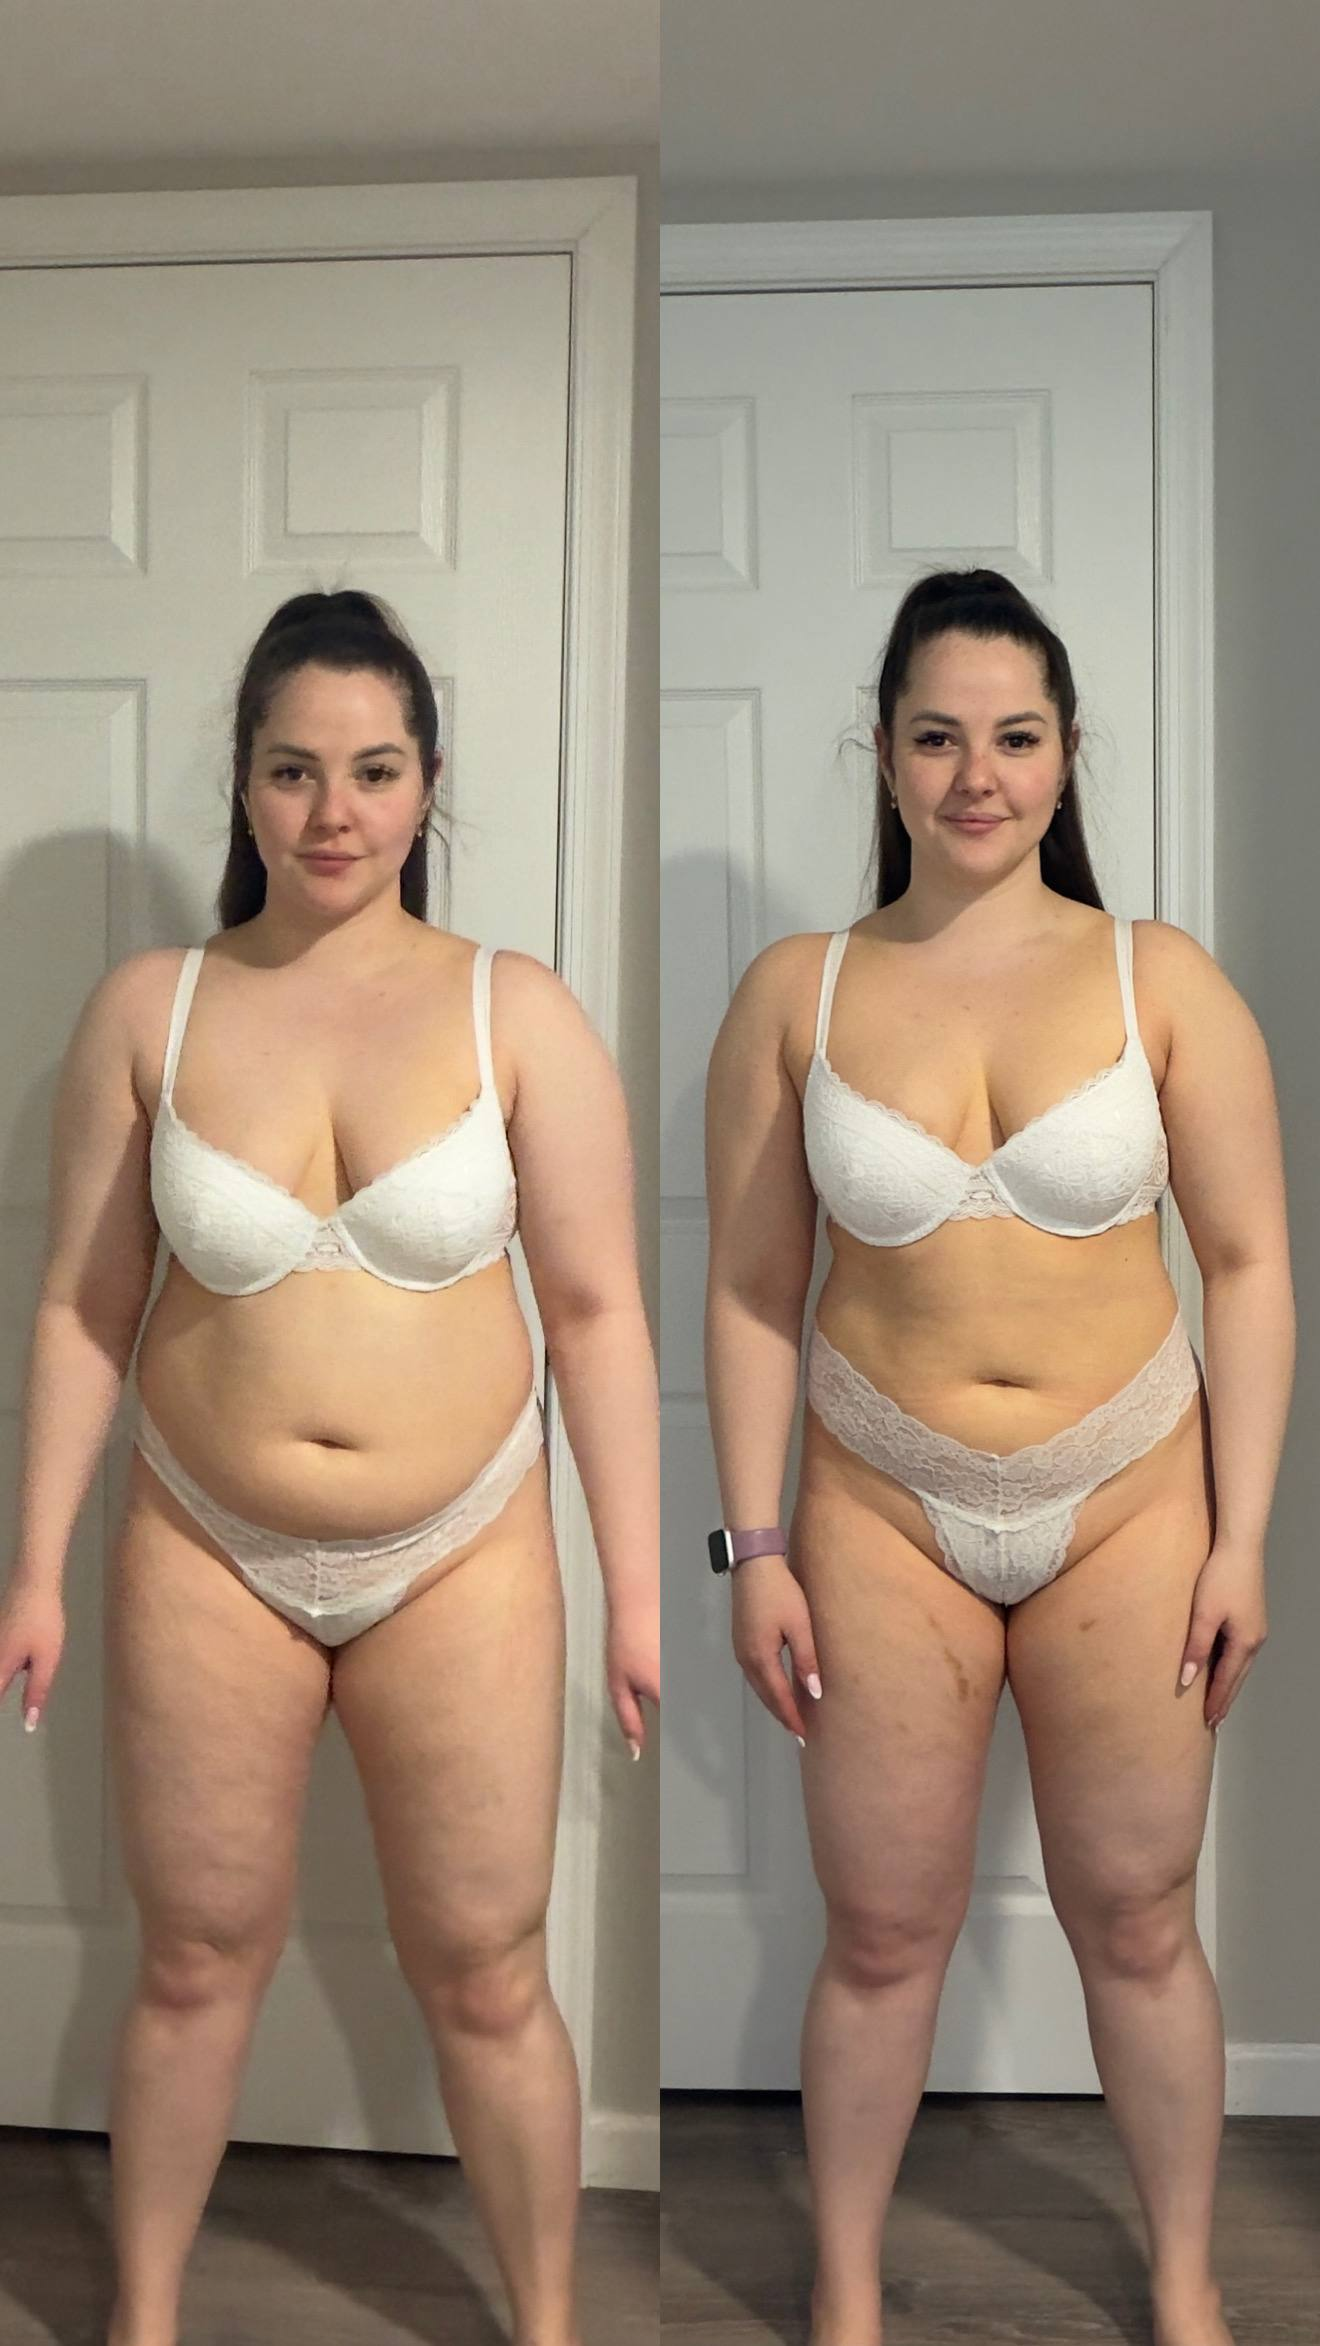
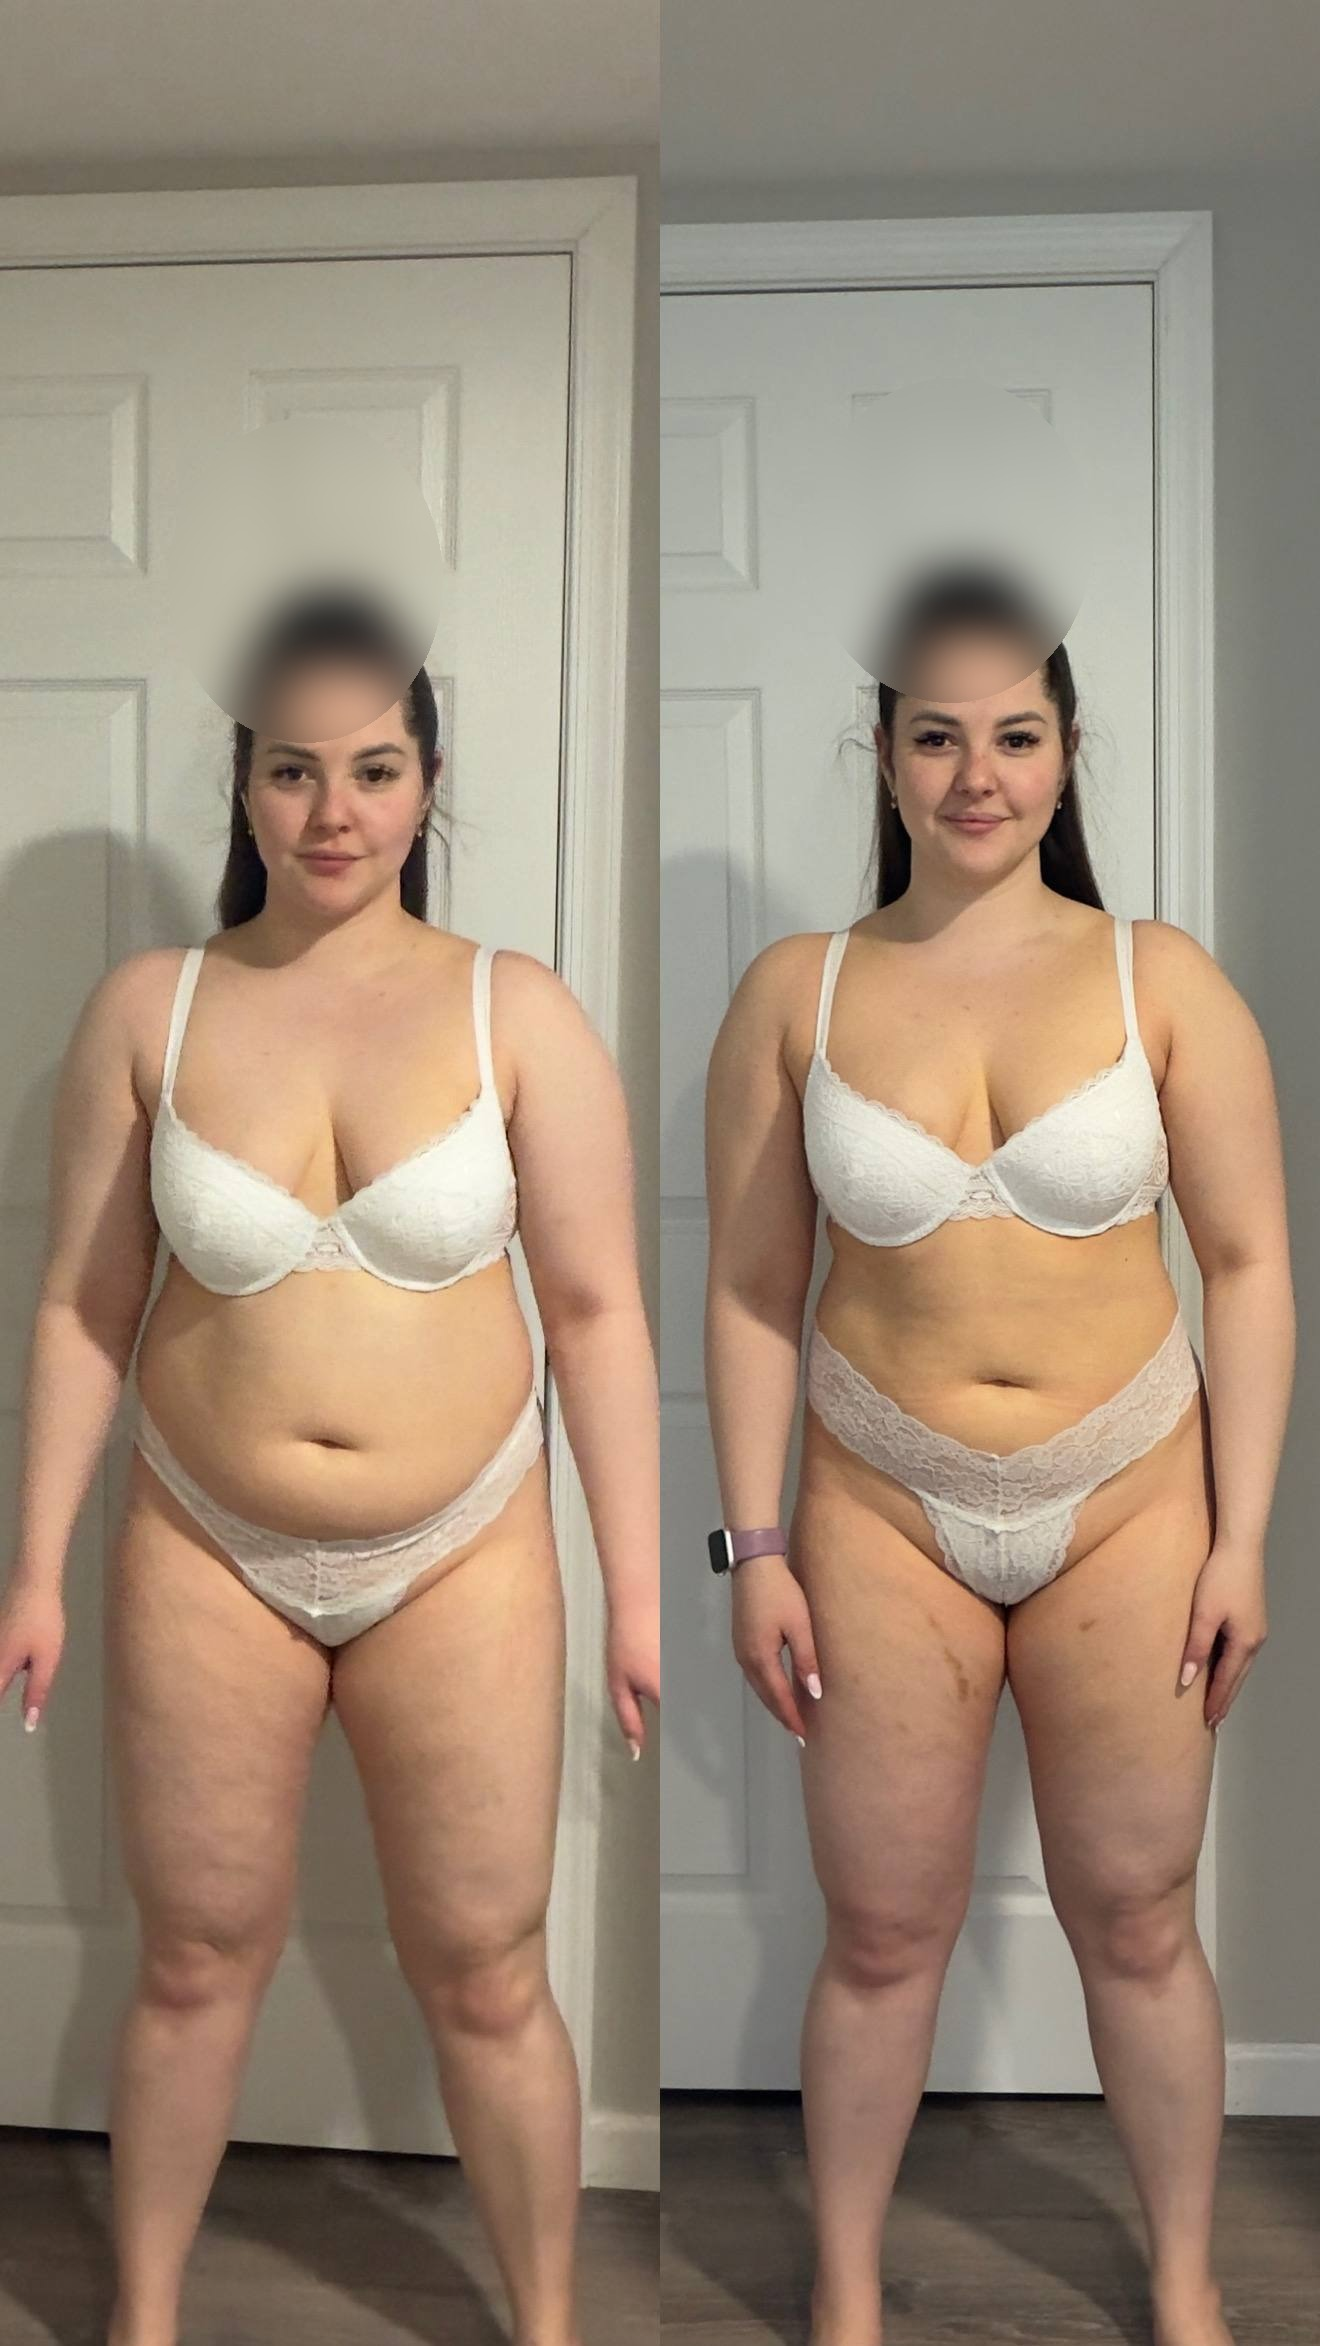
Update review cases and mobile content

Changed region(s): [[0.1553, 0.2178, 0.3417, 0.3423], [0.6523, 0.2178, 0.8076, 0.3112]]

diff --git a/js/custom-texts.js b/js/custom-texts.js
@@ -299,15 +299,20 @@
     if (groups[0]) {
       setText(".about-p", "Когда женщина начинает:", groups[0]);
       const leftSteps = [
-        "✔ высыпаться",
-        "✔ нормально есть",
-        "✔ двигаться",
-        "✔ нравиться себе в зеркале",
-        "✔ перестаёт жить в режиме ПОСЛЕДНЕЙ НЕРВНОЙ КЛЕТКИ…",
-        "😏",
+        "высыпаться",
+        "нормально есть",
+        "двигаться",
+        "нравиться себе в зеркале",
+        "перестаёт жить в режиме ПОСЛЕДНЕЙ НЕРВНОЙ КЛЕТКИ…",
       ];
-      qa(".about-step p", groups[0]).forEach((el, i) => {
-        if (leftSteps[i]) el.innerHTML = leftSteps[i];
+      qa(".about-step", groups[0]).forEach((step, i) => {
+        const text = q("p", step);
+        if (leftSteps[i] && text) {
+          text.innerHTML = leftSteps[i];
+          step.style.display = "";
+          return;
+        }
+        step.style.display = "none";
       });
     }
 
@@ -321,8 +326,14 @@
         "✨ уйти оттуда, где её не ценят",
         "✨ наконец выбрать себя",
       ];
-      qa(".about-step p", groups[1]).forEach((el, i) => {
-        if (rightSteps[i]) el.innerHTML = rightSteps[i];
+      qa(".about-step", groups[1]).forEach((step, i) => {
+        const text = q("p", step);
+        if (rightSteps[i] && text) {
+          text.innerHTML = rightSteps[i];
+          step.style.display = "";
+          return;
+        }
+        step.style.display = "none";
       });
     }
   }
@@ -335,7 +346,11 @@
         "Если ты думаешь, что я <span class=\"h2-accent pink\">темщица</span> …";
     }
     if (headings[1]) headings[1].textContent = "то НЕТ. 😏";
-    setText(".list-to-side", "Ныряй 👇", system);
+    setText(
+      ".list-to-side",
+      "У меня есть конкретная схема, как сделать так, чтобы изменения стали ЗАКОНОМЕРНОСТЬЮ, работая комплексно через…",
+      system
+    );
 
     const slides = qa(".slide-item", system);
     const slideData = [
@@ -608,13 +623,13 @@
       reviews
     );
     const labels = qa(".slider-with-name .list-to-side", reviews);
-    if (labels[0]) labels[0].textContent = "/основные кейсы/";
-    if (labels[1]) labels[1].textContent = "/дополнительные ракурсы/";
+    if (labels[0]) labels[0].remove();
+    if (labels[1]) labels[1].remove();
 
     const resultGroups = qa(".slider-with-name", reviews);
     const primaryCases = [
       {
-        name: "Катюша",
+        name: "Катя",
         meta: "фронт + профиль",
         image: "images/reviews/katyusha-main.jpg",
       },
@@ -624,19 +639,39 @@
         image: "images/reviews/karina-main.jpg",
       },
       {
-        name: "Наташка",
+        name: "Наталья",
         meta: "фронт",
         image: "images/reviews/natashka-main.jpg",
       },
       {
-        name: "Настя, школьная подружка",
+        name: "Настя",
         meta: "фронт + профиль",
         image: "images/reviews/nastya-main.jpg",
+      },
+      {
+        name: "Кейс 5",
+        meta: "фронт + профиль",
+        image: "images/reviews/case-5-main.jpg",
+      },
+      {
+        name: "Кейс 6",
+        meta: "профиль",
+        image: "images/reviews/case-6-main.jpg",
+      },
+      {
+        name: "Кейс 7",
+        meta: "профиль",
+        image: "images/reviews/case-7-main.jpg",
+      },
+      {
+        name: "Кейс 8",
+        meta: "профиль",
+        image: "images/reviews/case-8-main.jpg",
       },
     ];
     const extraCases = [
       {
-        name: "Катюша",
+        name: "Катя",
         meta: "фронт + спина",
         image: "images/reviews/katyusha-back.jpg",
       },
@@ -651,19 +686,29 @@
         image: "images/reviews/karina-side-close.jpg",
       },
       {
-        name: "Наташка",
+        name: "Наталья",
         meta: "профиль",
         image: "images/reviews/natashka-side.jpg",
       },
       {
-        name: "Настя, школьная подружка",
+        name: "Настя",
         meta: "спина + фронт",
         image: "images/reviews/nastya-back.jpg",
       },
       {
-        name: "Настя, школьная подружка",
+        name: "Настя",
         meta: "дополнительный профиль",
         image: "images/reviews/nastya-side-alt.jpg",
+      },
+      {
+        name: "Кейс 5",
+        meta: "детальный профиль",
+        image: "images/reviews/case-5-detail.jpg",
+      },
+      {
+        name: "Кейс 6",
+        meta: "деталь",
+        image: "images/reviews/case-6-detail.png",
       },
     ];
 

diff --git a/css/fosipiaa.webflow.shared.f6f4d4067.css b/css/fosipiaa.webflow.shared.f6f4d4067.css
@@ -2517,7 +2517,8 @@ p {
   .slider-system {
     background-color: #0000;
     flex-flow: column;
-    height: 146.933vw;
+    height: auto;
+    min-height: 0;
     margin-top: 8.53333vw;
     margin-bottom: 5.86667vw;
     padding-left: 4vw;
@@ -2526,14 +2527,16 @@ p {
   }
 
   .slider-mask {
-    height: 141.067vw;
+    height: auto;
+    min-height: 0;
     overflow: visible;
   }
 
   .slide-item {
     background-color: #151515;
     border-radius: 2.13333vw;
-    height: 141.067vw;
+    height: auto;
+    min-height: 0;
     margin-right: 1.06667vw;
   }
 
@@ -2553,7 +2556,8 @@ p {
     grid-row-gap: 4.8vw;
     color: #fff;
     flex-flow: column;
-    height: 100%;
+    height: auto;
+    min-height: 0;
     padding: 7.46667vw 5.33333vw 5.33333vw;
     display: flex;
   }
@@ -2614,7 +2618,7 @@ p {
     grid-column-gap: 3.73333vw;
     grid-row-gap: 3.73333vw;
     flex-flow: column;
-    margin-top: auto;
+    margin-top: 0;
     display: flex;
   }
 
